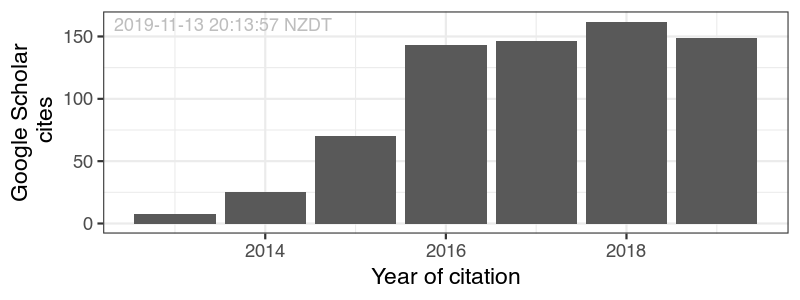
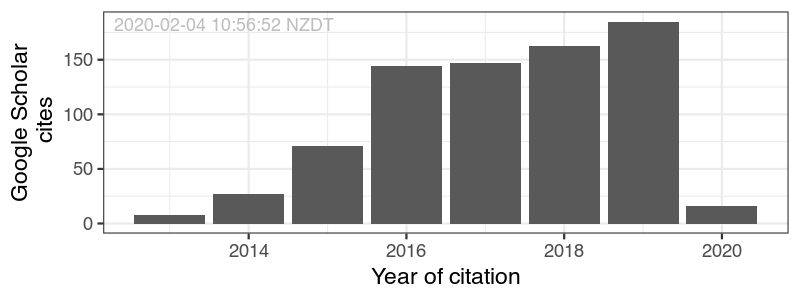
updated CV for faststart 2020

diff --git a/index.md b/index.md
@@ -138,25 +138,29 @@ A course designed to walk Research Supervisors through the frameworks and pragma
 ## Publication Metrics
 
 * Journal articles: __39__	
-* H-index: __15__
-* Citations: __715__
+* H-index: __16__
+* Citations: __775__
 
 ## Publications
 
 <!-- ### Journals -->
+'2020'
+
+Macartney-Coxson D, Danielson K, Clapham J, **Benton MC**, Johnstone A, Jones A, Shaw O, Hagan RD, Hoffman EP, Hayes M, Harper J, Langston MA, and Stubbs RS. (2019) MicroRNA profiling in adipose before and after weight-loss highlights the role of miR-223-3p and the NLRP3 inflammasome. *Obesity* (accepted 30th October 2019)
+
+<!--
+Macartney-Coxson D, Cameron A, Clapham J, and **Benton MC**. (2019) DNA methylation in blood - potential to provide new insights in immune cell biology. *BMC Genomics* (under review)
+-->
+
 `2019`
 
 Osborne AJ, Pearson JF, Noble AJ, Gemmell NJ, Horwood LJ, Boden JM, **Benton MC**, Macartney-Coxson D, and Kennedy MA. (2019) Genome-wide DNA methylation analysis of heavy cannabis exposure in a New Zealand longitudinal cohort. *bioRxiv* http://biorxiv.org/content/early/2019/11/07/829598.abstract
 
-Harvey NR, Albury CL, Stuart S, **Benton MC**, Ecccles DA, Connell J, Sutherland HG, Allcock RJ, Lea RA, Haupt LM, and Griffiths LR. (2019) Ion torrent high throughput mitochondrial genome sequencing (HTMGS). *PLoS ONE* (accepted Novemeber 2nd 2019)
+Harvey NR, Albury CL, Stuart S, **Benton MC**, Ecccles DA, Connell J, Sutherland HG, Allcock RJ, Lea RA, Haupt LM, and Griffiths LR. (2019) Ion torrent high throughput mitochondrial genome sequencing (HTMGS). *PLoS ONE* 14(11):e0224847
 
-Macartney-Coxson D, Danielson K, Clapham J, **Benton MC**, Johnstone A, Jones A, Shaw O, Hagan RD, Hoffman EP, Hayes M, Harper J, Langston MA, and Stubbs RS. (2019) MicroRNA profiling in adipose before and after weight-loss highlights the role of miR-223-3p and the NLRP3 inflammasome. *Obesity* (accepted 30th October 2019)
+**Benton MC**, Lea RA, Macartney-Coxson D, Sutherland HG, White NM, Kennedy DW, Mengersen K, Haupt LM, and Griffiths LR. (2019) Genome-wide allele-specific methylation is enriched at gene regulatory regions in a multi-generation pedigree from the Norfolk Island isolate. *Epigenetics and Chromatin* 12(60)
 
-Macartney-Coxson D, Cameron A, Clapham J, and **Benton MC**. (2019) DNA methylation in blood - potential to provide new insights in immune cell biology. *BMC Genomics* (under review)
-
-**Benton MC**, Lea RA, Macartney-Coxson D, Sutherland HG, White NM, Kennedy DW, Mengersen K, Haupt LM, and Griffiths LR. (2019) Genome-wide allele-specific methylation is enriched at gene regulatory regions in a multi-generation pedigree from the Norfolk Island isolate. *Epigenetics and Chromatin* (accepted 16th Sept 2019)
-
-**Benton MC**, Smith RA, Haupt LM, Albury CL, Maksemous N, Lea RA, and Griffiths LR. (2019) Variant Call Format (VCF)-Diagnostic Annotation and Reporting Tool (VCF-DART) A Customizable Analysis Pipeline for Identification of Clinically Relevant Genetic Variants in Next-Generation Sequencing Data. *Journal of Molecular Diagnostics* (In Press, Journal Pre-proof, Available online 20 August 2019) [DOI: https://doi.org/10.1016/j.jmoldx.2019.07.001]
+**Benton MC**, Smith RA, Haupt LM, Albury CL, Maksemous N, Lea RA, and Griffiths LR. (2019) Variant Call Format (VCF)-Diagnostic Annotation and Reporting Tool (VCF-DART) A Customizable Analysis Pipeline for Identification of Clinically Relevant Genetic Variants in Next-Generation Sequencing Data. *Journal of Molecular Diagnostics* 21(6) [DOI: https://doi.org/10.1016/j.jmoldx.2019.07.001]
 
 Kennedy DW, White NM, **Benton MC**, Lea RL and Mengersen K. (2019) Cell-type specific analysis of heterogeneous methylation signal using a Bayesian model-based approach. *biorxiv* (DOI: https://doi.org/10.1101/682070)
 
